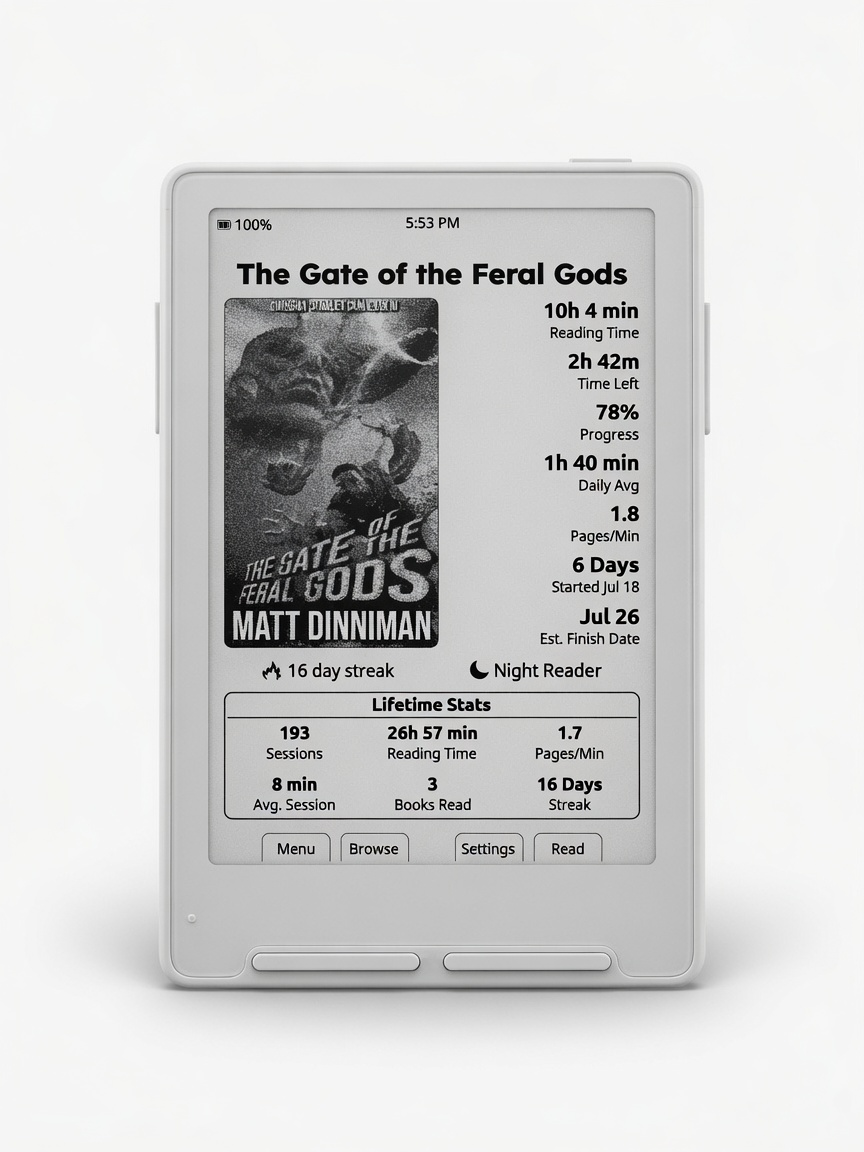
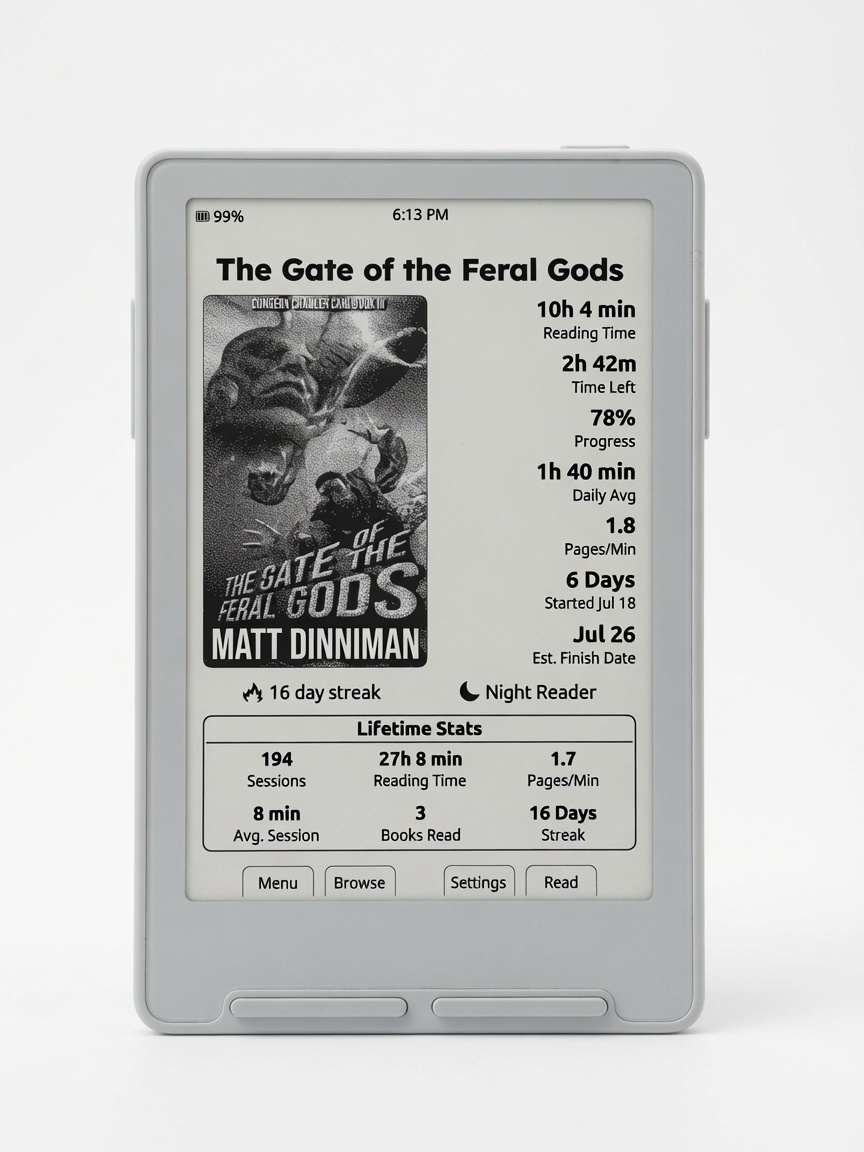
docs: refresh Casper photo tour with new device shots
Replace prior gallery with dashboard, reader, stats, controls, dictionary
packs, multi-word, English, and Spanish-English screenshots.

Changed region(s): [[0.125, 0.125, 0.875, 0.9062]]

diff --git a/docs/casper.md b/docs/casper.md
@@ -1,7 +1,7 @@
 ---
 title: Casper tour
 nav_order: 2
-description: Visual tour of Casper home, reader chrome, dictionary, and stats
+description: Visual tour of Casper home, reader, stats, controls, and dictionary
 ---
 
 # Casper tour
@@ -9,116 +9,115 @@ description: Visual tour of Casper home, reader chrome, dictionary, and stats
 **Casper** is personal firmware for the **Xteink X3/X4**, built on
 [CrossPoint Reader](https://github.com/crosspoint-reader/crosspoint-reader).
 It keeps a solid EPUB/TXT reading core, then layers Casper branding and a
-quieter reading-first UI: Dashboard home, redesigned reader chrome, reading
-stats, and offline dictionary lookup with multi-word selection.
+reading-first UI: Dashboard home, redesigned reader chrome, reading stats,
+flexible controls, and offline dictionary lookup with multi-word selection.
 
-[View on GitHub](https://github.com/TweakerInc/casper) ┬╖
-[Releases](https://github.com/TweakerInc/casper/releases) ┬╖
+[View on GitHub](https://github.com/tweakerinc/casper) ·
+[Releases](https://github.com/tweakerinc/casper/releases) ·
 [Installation](./installation.md)
 
 ---
 
 ## Dashboard home
 
-The home theme is **Dashboard**: current book cover, live reading stats,
-lifetime totals, streak, and short front-button labels ΓÇö
-**Menu ┬╖ Browse ┬╖ Settings ┬╖ Read**.
+Current book cover, live metrics, lifetime totals, streak, and short front-button
+labels — **Menu · Browse · Settings · Read**.
 
-<img src="./images/casper/dashboard.jpg" alt="Casper Dashboard home with book cover, reading stats, and lifetime stats" width="360" />
+<img src="./images/casper/dashboard.jpg" alt="Casper Dashboard home with book cover and stats" width="360" />
 
-*Dashboard home ΓÇö cover art, book metrics, lifetime grid, and streak.*
-
-| Area | Details |
-|------|---------|
-| Cover | Book cover fills the frame (rounded) |
-| Book column | Reading time, time left, progress, daily avg, pages/min, started, est. finish |
-| Lifetime | Sessions, reading time, pages/min, avg session, books read, streak |
-| Buttons | Menu ┬╖ Browse ┬╖ Settings ┬╖ Read |
-| Status bar | Battery + clock |
+*Dashboard — cover, book metrics, lifetime grid, 16-day streak, Night Reader.*
 
 ---
 
-## Reader chrome
+## Reading view
 
-Reading view keeps chrome small so the page stays the focus.
+Chrome stays small so the page stays the focus: battery, clock, progress,
+time left, chapter, and page number.
 
-<img src="./images/casper/reader-view.jpg" alt="Casper reader view with battery, clock, progress, time left, chapter, and page number" width="360" />
+<img src="./images/casper/reading-view.jpg" alt="Casper reading view with status bar chrome" width="360" />
 
-*Reader view ΓÇö top battery / clock / completion; bottom time-left, chapter, page.*
-
-| Position | Content |
-|----------|---------|
-| Top | Battery, clock, book progress (percent complete) |
-| Bottom-left | Time left (`3h 51m in Book`) |
-| Bottom-center | Chapter title |
-| Bottom-right | Chapter pages as `Pg. 1/23` |
-| Bottom edge | Thin progress bar (optional) |
-
-Defaults: short power ΓåÆ **Sleep**, long-press menu ΓåÆ **Dictionary**.
-
----
-
-## Dictionary
-
-Offline **StarDict** (or CXDict-era) packs on the SD card. Multiple packs can
-cascade in one card. Open dictionary from the reader (long-press Menu by
-default), move to a word, press **Select**.
-
-### Multi-word selection
-
-Long-press **Select** to arm a range, move with Left/Right, short **Select** to
-look up the phrase. Collocations such as `por favor` and stemmed forms
-(`ay├║dame` ΓåÆ help) are supported where the pack has them.
-
-<img src="./images/casper/multi-word-selection.jpg" alt="Multi-word dictionary selection highlighting por favor with Spanish-English definition" width="360" />
-
-*Multi-word selection ΓÇö `por favor` ΓåÆ SpanishΓÇôEnglish ΓÇ£pleaseΓÇ¥.*
-
-### English + bilingual cascade
-
-Enable several packs. One lookup can show English senses and a bilingual gloss
-together, with pronunciation beside the headword.
-
-<img src="./images/casper/dictionary-english.jpg" alt="Dictionary card for person with English and English-Spanish definitions" width="360" />
-
-*English headword with pronunciation, then English and EnglishΓÇôSpanish packs.*
-
-### Spanish on the page
-
-Spanish tokens look up against SpanishΓÇôEnglish packs with accent-aware matching.
-
-<img src="./images/casper/dictionary-spanish.jpg" alt="Dictionary card for est├│mago with Spanish-English definition stomach" width="360" />
-
-*`est├│mago` ΓåÆ SpanishΓÇôEnglish, masculine, ΓÇ£stomachΓÇ¥.*
-
-More detail: [Dictionary](./dictionary.md).
+*Reader — top battery / clock / percent complete; bottom time left, chapter, Pg. n/m.*
 
 ---
 
 ## Reading stats
 
-Stats update as you read and appear on Dashboard and in the full **Reading
-Stats** screen.
+Full **Reading Stats** for the current book, plus device lifetime charts.
 
-- **Per book** ΓÇö time, progress, pace, sessions, start / est. finish  
-- **Lifetime** ΓÇö sessions, total time, pages/min, avg session, books, streak  
+<img src="./images/casper/reading-stats.jpg" alt="Per-book reading stats with time of day and day of week charts" width="360" />
+
+*Per-book stats — sessions, time, progress, pace, start / est. finish, habit charts.*
+
+<img src="./images/casper/lifetime-stats.jpg" alt="Device lifetime reading stats with charts" width="360" />
+
+*This device — lifetime totals plus time-of-day and day-of-week breakdowns.*
+
+---
+
+## Controls
+
+Defaults tuned for everyday use: short power sleeps, long power refreshes,
+long-press menu opens the dictionary.
+
+<img src="./images/casper/controls.jpg" alt="Settings Controls tab with power and menu defaults" width="360" />
+
+*Settings → Controls — Short-Press Power = Sleep, Long-Press Menu = Dictionary.*
+
+---
+
+## Dictionary
+
+Offline packs on the SD card. Multi-select which dictionaries cascade on lookup.
+
+### Pack selection
+
+<img src="./images/casper/dictionary-settings.jpg" alt="Dictionary pack multi-select screen" width="360" />
+
+*Dictionary settings — enable English, English–Spanish, Spanish–English packs.*
+
+### English + bilingual cascade
+
+One lookup can show English senses and a bilingual gloss in the same card,
+with pronunciation beside the headword.
+
+<img src="./images/casper/english-definition.jpg" alt="Dictionary card for transformation with English and English-Spanish" width="360" />
+
+*`transformation` — English definition plus English–Spanish gloss.*
+
+### Spanish clitics
+
+Forms like **ayúdame** resolve to the verb stem with a natural “help me” line.
+
+<img src="./images/casper/spanish-english.jpg" alt="Dictionary card for ayudar from Spanish clitic ayudame" width="360" />
+
+*`Ayúdame` → ayudar / help me (Spanish–English).*
+
+### Multi-word selection
+
+Long-press **Select** to arm a range, move with Left/Right, short **Select** to
+look up the phrase (e.g. collocations like `por favor`).
+
+<img src="./images/casper/multi-word-selection.jpg" alt="Multi-word selection of por favor with definition please" width="360" />
+
+*Multi-word selection — `por favor` → “please”.*
+
+More install detail: [Dictionary](./dictionary.md).
 
 ---
 
 ## Highlights at a glance
 
-- **Casper** branding (boot, portal, serial strings)  
-- **Dashboard** home + reader chrome tuned for e-ink  
-- **Offline dictionary** with multi-word selection  
-- **KOReader Sync** options  
-- Control defaults: short power = sleep; side long-press = ignore  
-- Status bar: battery; time left scoped `in Book` / `in Chapter`  
+- **Casper** branding (boot, portal, serial / **v0.1**)
+- **Dashboard** home + quiet reader chrome
+- **Reading stats** per book and this device (with charts)
+- **Controls** defaults: sleep / refresh / dictionary
+- **Offline dictionary** with multi-pack cascade and multi-word selection
 
 ---
 
 ## Get the firmware
 
-1. Open **[Releases](https://github.com/TweakerInc/casper/releases)**  
+1. Open **[Releases](https://github.com/tweakerinc/casper/releases)**  
 2. Download the `.bin` for your build  
 3. Follow **[Installation](./installation.md)**  
 

diff --git a/docs/index.md b/docs/index.md
@@ -8,8 +8,8 @@ nav_order: 1
 Personal e-reader firmware for **Xteink X3/X4**, built on
 [CrossPoint Reader](https://github.com/crosspoint-reader/crosspoint-reader).
 
-[View on GitHub](https://github.com/TweakerInc/casper) ·
-[Releases](https://github.com/TweakerInc/casper/releases) ·
+[View on GitHub](https://github.com/tweakerinc/casper) ·
+[Releases](https://github.com/tweakerinc/casper/releases) ·
 [Photo tour](./casper.md)
 
 <p align="center">
@@ -18,7 +18,7 @@ Personal e-reader firmware for **Xteink X3/X4**, built on
 
 ## Get firmware
 
-1. Open **[Releases](https://github.com/TweakerInc/casper/releases)**
+1. Open **[Releases](https://github.com/tweakerinc/casper/releases)**
 2. Download `firmware-default.bin` (or `tiny` / `xlarge` if you publish those)
 3. Follow **[Installation](./installation.md)**
 
@@ -27,19 +27,27 @@ Personal e-reader firmware for **Xteink X3/X4**, built on
 | | |
 |---|---|
 | **Dashboard** | Cover + book metrics + lifetime stats |
-| **Reader chrome** | Battery, clock, percent complete, time left, `Pg. n/m` |
-| **Dictionary** | Offline lookup, multi-word selection, bilingual packs |
-| **Stats** | Per-book and lifetime reading stats |
+| **Reader chrome** | Battery, clock, progress, time left, `Pg. n/m` |
+| **Reading stats** | Per-book and device lifetime with habit charts |
+| **Dictionary** | Multi-pack offline lookup, multi-word selection |
 | **Controls** | Short power = sleep · long-press menu = dictionary |
 
 ### Screenshots
 
 <p align="center">
-  <img src="./images/casper/reader-view.jpg" alt="Reader view" width="200" />
+  <img src="./images/casper/reading-view.jpg" alt="Reading view" width="180" />
   &nbsp;
-  <img src="./images/casper/multi-word-selection.jpg" alt="Multi-word dictionary" width="200" />
+  <img src="./images/casper/reading-stats.jpg" alt="Reading stats" width="180" />
   &nbsp;
-  <img src="./images/casper/dictionary-english.jpg" alt="English dictionary" width="200" />
+  <img src="./images/casper/english-definition.jpg" alt="Dictionary" width="180" />
+</p>
+
+<p align="center">
+  <img src="./images/casper/multi-word-selection.jpg" alt="Multi-word selection" width="180" />
+  &nbsp;
+  <img src="./images/casper/spanish-english.jpg" alt="Spanish-English" width="180" />
+  &nbsp;
+  <img src="./images/casper/controls.jpg" alt="Controls settings" width="180" />
 </p>
 
 **Full photo tour with captions:** **[Casper tour](./casper.md)**

diff --git a/README.md b/README.md
@@ -14,23 +14,44 @@ Casper is a personal build of CrossInk (https://github.com/uxjulia/CrossInk), re
 <table>
   <tr>
     <td align="center" width="33%">
-      <img src="./docs/images/casper/reader-view.jpg" alt="Reader view" /><br/>
+      <img src="./docs/images/casper/reading-view.jpg" alt="Reading view" /><br/>
       <em>Reader chrome</em>
     </td>
     <td align="center" width="33%">
-      <img src="./docs/images/casper/multi-word-selection.jpg" alt="Multi-word dictionary" /><br/>
+      <img src="./docs/images/casper/reading-stats.jpg" alt="Reading stats" /><br/>
+      <em>Book reading stats</em>
+    </td>
+    <td align="center" width="33%">
+      <img src="./docs/images/casper/lifetime-stats.jpg" alt="Lifetime stats" /><br/>
+      <em>Device lifetime stats</em>
+    </td>
+  </tr>
+  <tr>
+    <td align="center" width="33%">
+      <img src="./docs/images/casper/english-definition.jpg" alt="English dictionary" /><br/>
+      <em>Dictionary card</em>
+    </td>
+    <td align="center" width="33%">
+      <img src="./docs/images/casper/multi-word-selection.jpg" alt="Multi-word selection" /><br/>
       <em>Multi-word lookup</em>
     </td>
     <td align="center" width="33%">
-      <img src="./docs/images/casper/dictionary-english.jpg" alt="English dictionary" /><br/>
-      <em>Dictionary card</em>
+      <img src="./docs/images/casper/spanish-english.jpg" alt="Spanish-English" /><br/>
+      <em>Spanish clitics</em>
     </td>
   </tr>
+  <tr>
+    <td align="center" width="33%">
+      <img src="./docs/images/casper/dictionary-settings.jpg" alt="Dictionary packs" /><br/>
+      <em>Dictionary packs</em>
+    </td>
+    <td align="center" width="33%">
+      <img src="./docs/images/casper/controls.jpg" alt="Controls settings" /><br/>
+      <em>Controls defaults</em>
+    </td>
+    <td></td>
+  </tr>
 </table>
-
-<p align="center">
-  <img src="./docs/images/casper/dictionary-spanish.jpg" alt="Spanish dictionary" width="280" />
-</p>
 
 **Full photo tour with captions:** **[docs/casper.md](./docs/casper.md)**
 
